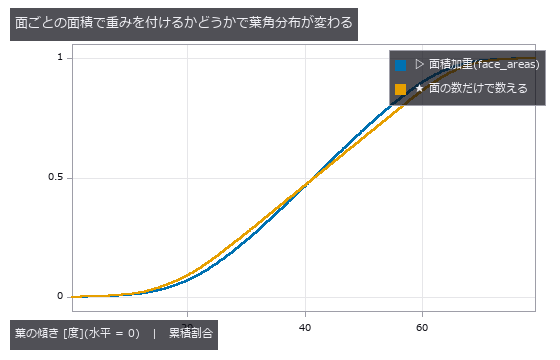
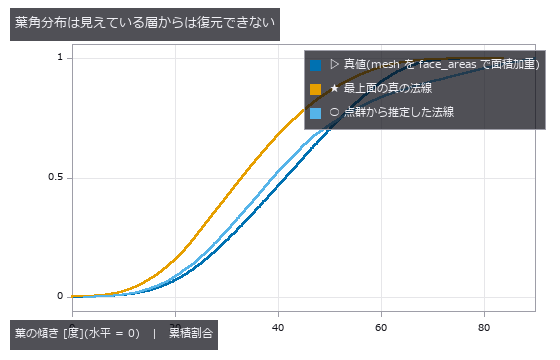
auto: poc_crop_phenotyping.py 編集前 (2026-09-08 01:51)

diff --git a/examples/poc_crop_phenotyping.py b/examples/poc_crop_phenotyping.py
@@ -1048,11 +1048,19 @@ def section_leaf_angle(can, buf_fine, k_true, mesh_stats):
           " %s ずれる。" % (rows[-1][0], rows[-1][5]))
 
     order = np.argsort(inc)
+    inc_ref = np.degrees(np.arccos(np.clip(nz_ref, 0.0, 1.0)))
+    inc_est = np.degrees(np.arccos(np.clip(nz_est, 0.0, 1.0)))
     figs.save_plot("leaf_angle_dist",
-                   [("面積加重(face_areas)", inc[order], np.cumsum(ar[order]) / ar.sum()),
-                    ("面の数だけで数える", np.sort(inc), np.linspace(0, 1, inc.size))],
+                   [("真値(mesh を face_areas で面積加重)", inc[order],
+                     np.cumsum(ar[order]) / ar.sum()),
+                    ("最上面の真の法線", np.sort(inc_ref),
+                     np.linspace(0, 1, inc_ref.size)),
+                    ("点群から推定した法線", np.sort(inc_est),
+                     np.linspace(0, 1, inc_est.size))],
                    xlabel="葉の傾き [度](水平 = 0)", ylabel="累積割合",
-                   title="面ごとの面積で重みを付けるかどうかで葉角分布が変わる")
+                   title="葉角分布は見えている層からは復元できない",
+                   caption="最上面は水平な葉に偏る(真値より左)。推定法線はさらに"
+                           "散らばり、面積加重を掛けると雑音が増幅される。")
     figs.save_table("fpar", ["太陽天頂角 [度]", "真の k(theta)", "球形仮定の k",
                              "fPAR(真の葉角)", "fPAR(球形仮定)", "誤差"], rows,
                     title="受光(fPAR)は天頂では k に鈍く、斜めで効く",
